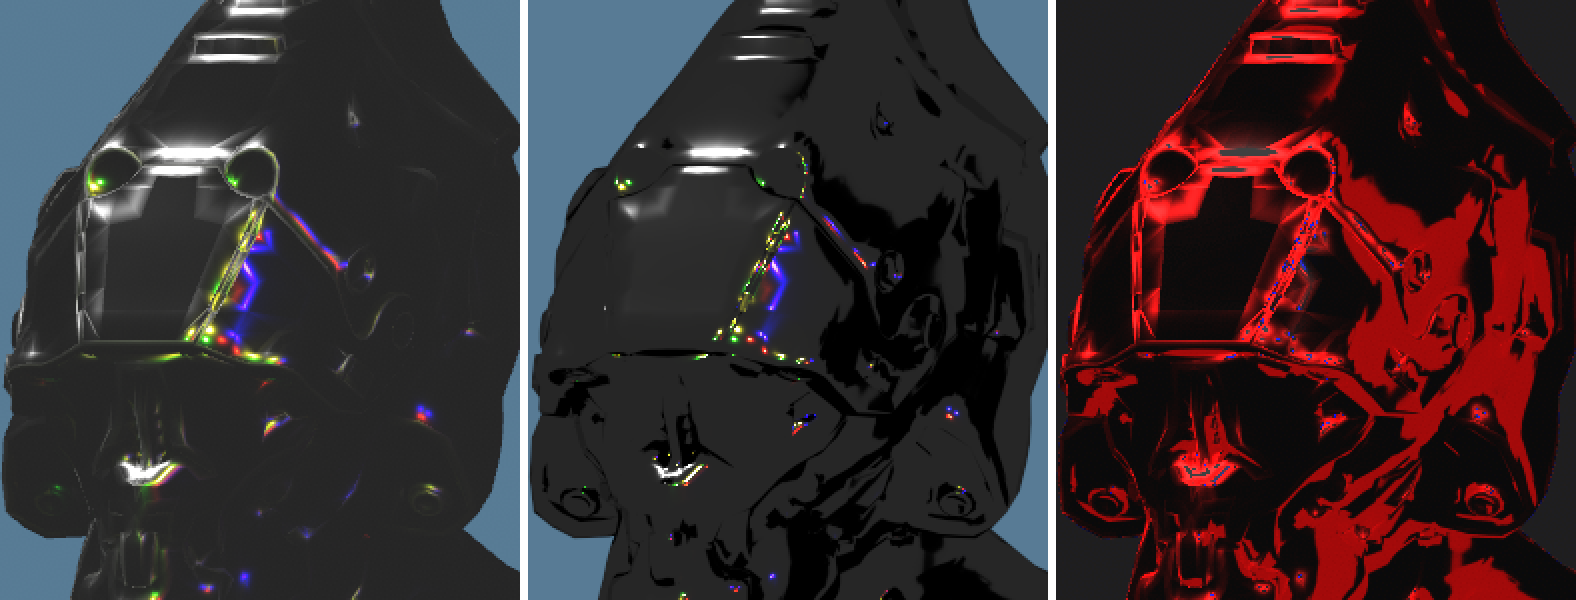
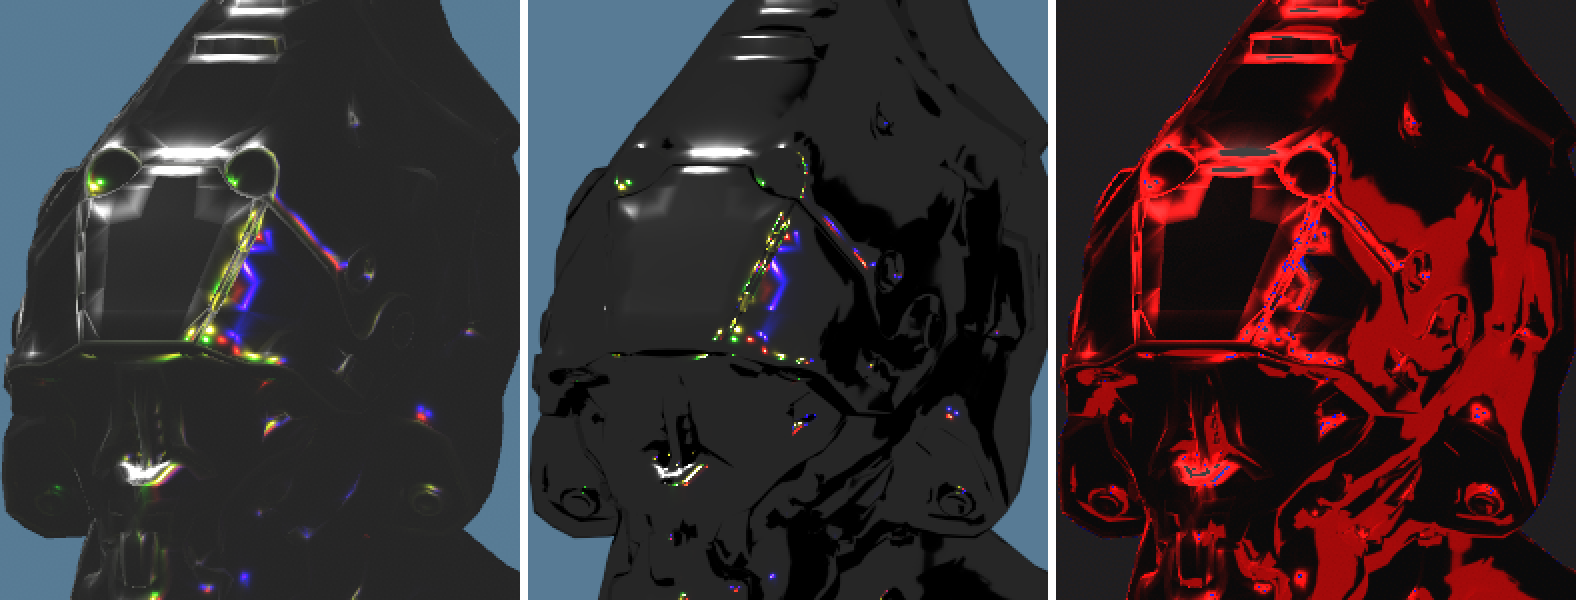
Apply the review's fixes to the Cycles reference
A difference image signed by the mean of its channels hid a change of
hue, so it now takes the channel that differs most. glTF's normal scale
multiplies the tangent normal's x and y, which Blender's Strength does
not, so the builder scales the texel itself. The roughness floor is read
from shading.wgsl so it cannot drift, the gallery now requires the
wrong-unit calibration to fail, and DIFFERENCES.md gains the ambient's
ideal diffuse response, which the review found unlisted.

diff --git a/scripts/cycles-reference/render.py b/scripts/cycles-reference/render.py
@@ -13,6 +13,7 @@ calibrate.py checks the light units these builders assume.
 import json
 import math
 import os
+import re
 import struct
 import sys
 
@@ -32,10 +33,11 @@ UNBOUNDED_RANGE = 1e9
 # glTF's +Y up to Blender's +Z up, (x, y, z) to (x, −z, y): a quarter turn
 # about +X.
 GLTF_TO_BLENDER = Matrix.Rotation(math.pi / 2.0, 4, "X")
-GLTF_TO_BLENDER_QUATERNION = np.array([math.cos(math.pi / 4.0), math.sin(math.pi / 4.0), 0.0, 0.0])
 DEFAULT_SAMPLES = 512
-# praxis's roughness floor, shading.wgsl's MINIMUM_ROUGHNESS.
-MINIMUM_ROUGHNESS = 0.04
+# praxis's roughness floor, read from the shader that holds it.
+SHADING_WGSL = os.path.join(os.path.dirname(os.path.abspath(__file__)), "../../src/render/shaders/shading.wgsl")
+with open(SHADING_WGSL) as shading:
+    MINIMUM_ROUGHNESS = float(re.search(r"const MINIMUM_ROUGHNESS: f32 = ([0-9.]+);", shading.read()).group(1))
 
 
 def require_blender():
@@ -65,6 +67,7 @@ def new_scene(width, height, samples):
                 device.use = device.type == backend
             scene.cycles.device = "GPU"
             break
+    print(f"render device: {scene.cycles.device} {preferences.compute_device_type if scene.cycles.device == 'GPU' else ''}")
     cycles = scene.cycles
     cycles.samples = samples
     cycles.use_adaptive_sampling = False
@@ -194,7 +197,8 @@ class Gltf:
             (stride or component.itemsize * width, component.itemsize),
         ).astype(np.float64 if component.kind == "f" or accessor.get("normalized") else np.int64)
         if accessor.get("normalized"):
-            values /= np.iinfo(component).max
+            # glTF's normalized integers: c / max, signed ones held to −1.
+            values = np.maximum(values / np.iinfo(component).max, -1.0)
         return values
 
     def image_bytes(self, index):
@@ -216,7 +220,7 @@ def blender_mesh(name, gltf, index, materials):
             vertex_starts[key] = vertex_count
             position = gltf.accessor(key[0])
             positions.append(position)
-            normals.append(gltf.accessor(key[1]) if key[1] is not None else np.zeros_like(position))
+            normals.append(gltf.accessor(key[1]) if key[1] is not None else None)
             uvs.append(gltf.accessor(key[2]) if key[2] is not None else np.zeros((len(position), 2)))
             vertex_count += len(position)
         if "indices" in primitive:
@@ -225,7 +229,9 @@ def blender_mesh(name, gltf, index, materials):
             primitive_corners = np.arange(gltf.document["accessors"][key[0]]["count"])
         corners.append(primitive_corners + vertex_starts[key])
         slots.append(np.full(len(primitive_corners) // 3, slot))
-    corners, normals, uvs = np.concatenate(corners), np.concatenate(normals), np.concatenate(uvs)
+    # Blender's own normals stand unless every Primitive gives its own.
+    normals = None if any(normal is None for normal in normals) else np.concatenate(normals)
+    corners, uvs = np.concatenate(corners), np.concatenate(uvs)
     mesh = bpy.data.meshes.new(name)
     mesh.vertices.add(vertex_count)
     mesh.vertices.foreach_set("co", np.concatenate(positions).ravel())
@@ -239,7 +245,7 @@ def blender_mesh(name, gltf, index, materials):
     corner_uvs = uvs[corners] * (1.0, -1.0) + (0.0, 1.0)
     mesh.uv_layers.new(name="UV").data.foreach_set("uv", corner_uvs.ravel())
     mesh.update(calc_edges=True)
-    if np.any(normals):
+    if normals is not None:
         mesh.normals_split_custom_set_from_vertices(normals)
     for material in materials:
         mesh.materials.append(material)
@@ -312,11 +318,27 @@ class MaterialBuilder:
         scaled(floor.inputs[0], entry["roughness"], roughness)
         links.new(floor.outputs[0], bsdf.inputs["Roughness"])
         if "normal" in textures:
+            # glTF scales the tangent-space normal's x and y,
+            # (texel · 2 − 1) ⊙ (scale, scale, 1); Blender's Strength blends
+            # towards the surface normal instead, so the scale is applied
+            # here and the result encoded back for the Normal Map node.
+            scale = entry["normal_scale"]
+            scaled_normal = nodes.new("ShaderNodeVectorMath")
+            scaled_normal.operation = "MULTIPLY_ADD"
+            scaled_normal.inputs[1].default_value = (2.0 * scale, 2.0 * scale, 2.0)
+            scaled_normal.inputs[2].default_value = (-scale, -scale, -1.0)
+            encoded = nodes.new("ShaderNodeVectorMath")
+            encoded.operation = "MULTIPLY_ADD"
+            encoded.inputs[1].default_value = (0.5, 0.5, 0.5)
+            encoded.inputs[2].default_value = (0.5, 0.5, 0.5)
             normal_map = nodes.new("ShaderNodeNormalMap")
             normal_map.uv_map = "UV"
-            normal_map.inputs["Strength"].default_value = entry["normal_scale"]
-            links.new(sampled("normal", "Non-Color"), normal_map.inputs["Color"])
+            links.new(sampled("normal", "Non-Color"), scaled_normal.inputs[0])
+            links.new(scaled_normal.outputs[0], encoded.inputs[0])
+            links.new(encoded.outputs[0], normal_map.inputs["Color"])
             links.new(normal_map.outputs[0], bsdf.inputs["Normal"])
+        # The occlusion texture goes unused: Cycles' rays find what hides the
+        # ambient, which the texture approximates.
         emissive = sampled("emissive", "sRGB") if "emissive" in textures else None
         scaled(bsdf.inputs["Emission Color"], entry["emissive"], emissive)
         bsdf.inputs["Emission Strength"].default_value = self.exposure
@@ -405,7 +427,7 @@ def build(directory, width, height, samples):
         # [x, y, z, w] to Blender's (w, x, y, z), then turned into Blender's
         # axes: the axis change's quaternion times each.
         rotations = np.array([entry["rotation"] for entry in renderables])[:, [3, 0, 1, 2]]
-        cosine, sine = GLTF_TO_BLENDER_QUATERNION[:2]
+        cosine, sine = GLTF_TO_BLENDER.to_quaternion()[:2]
         w, x, y, z = rotations.T
         rotations = np.stack([cosine * w - sine * x, cosine * x + sine * w, cosine * y - sine * z, cosine * z + sine * y], 1)
         points = bpy.data.meshes.new(f"{mesh_name} {material_name} points")

diff --git a/scripts/cycles-reference/compare.py b/scripts/cycles-reference/compare.py
@@ -9,8 +9,8 @@ values in display-ramp.txt, within one 8-bit step.
 
 `compare` writes the Cycles render through the display transform and the
 difference: praxis's capture dimmed to a quarter, under red where praxis
-is brighter and blue where Cycles is, at four times the mean of the
-channels' differences. `crop` writes praxis | Cycles | difference of a
+is brighter and blue where Cycles is, at four times the channel that
+differs most, so a change of hue shows too. `crop` writes praxis | Cycles | difference of a
 region, each pixel doubled.
 """
 import os
@@ -173,7 +173,9 @@ def save(rgb, path):
 
 
 def difference(praxis, cycles):
-    signed = (praxis - cycles).mean(-1)
+    channels = praxis - cycles
+    largest = np.abs(channels).argmax(-1)[..., None]
+    signed = np.take_along_axis(channels, largest, -1)[..., 0]
     shown = 0.25 * praxis.mean(-1, keepdims=True).repeat(3, -1)
     shown[..., 0] += np.clip(4.0 * signed, 0.0, 1.0)
     shown[..., 2] += np.clip(-4.0 * signed, 0.0, 1.0)

diff --git a/scripts/cycles-reference/DIFFERENCES.md b/scripts/cycles-reference/DIFFERENCES.md
@@ -7,7 +7,7 @@ defect. Anything else a Cycles difference image shows is a finding.
 Each crop is praxis | Cycles | difference, from `scripts/gallery.sh` with
 `PRAXIS_BLENDER` set, at 2x. The difference is praxis's capture dimmed to a
 quarter, red where praxis is brighter and blue where Cycles is, at four
-times the mean of the channels' differences. A difference of an 8-bit step
+times the channel that differs most. A difference of an 8-bit step
 or so everywhere is praxis's dither, which the Cycles image does not carry,
 and fine speckle in Cycles' brightest highlights is its sampling noise.
 
@@ -27,6 +27,18 @@ object itself or its neighbours (`helmet`'s and `pbr-sweep`'s metals,
 ![Town's shaded street: praxis brighter where the walls hide the sky](differences/ambient-street.png)
 
 ![A smooth white metal helmet: Cycles' reflections of itself black](differences/ambient-reflections.png)
+
+## Ambient light as an ideal diffuse response
+
+praxis's ambient reflects E/π times the base colour from every surface, an
+ideal Lambertian surface's response, standing for the whole BRDF's. Cycles
+integrates the BSDF itself over its white world, and single-scatter GGX
+loses light to masking that grows with roughness and towards grazing, while
+Fresnel moves light between the diffuse and specular lobes. Shows as praxis
+a few 8-bit steps brighter wherever only the ambient lights a surface, most
+on rough metals and towards rims (`pbr-sweep`, `orrery`, `shadows`).
+
+![A metal of roughness 0.9: praxis brighter where only the ambient reaches it](differences/ambient-response.png)
 
 ## Highlights widened by specular antialiasing and Toksvig
 
